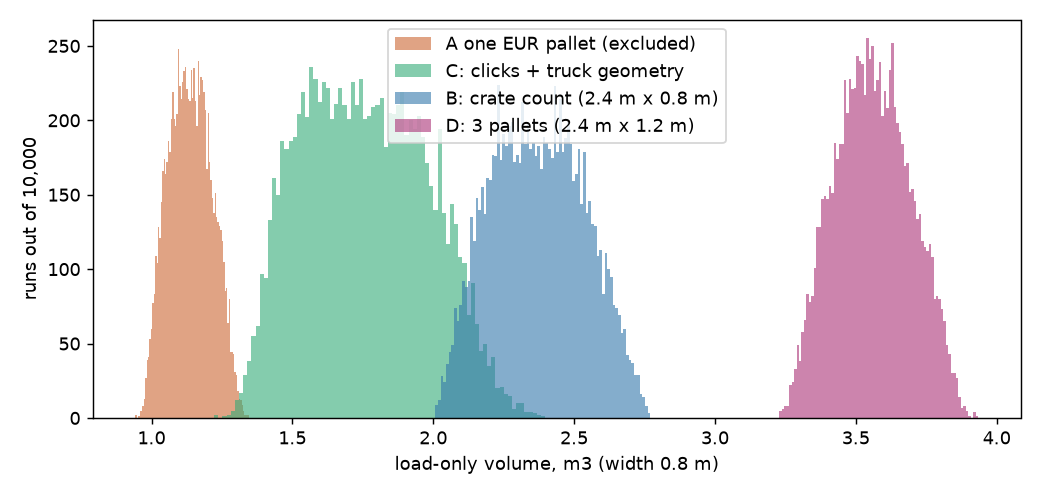
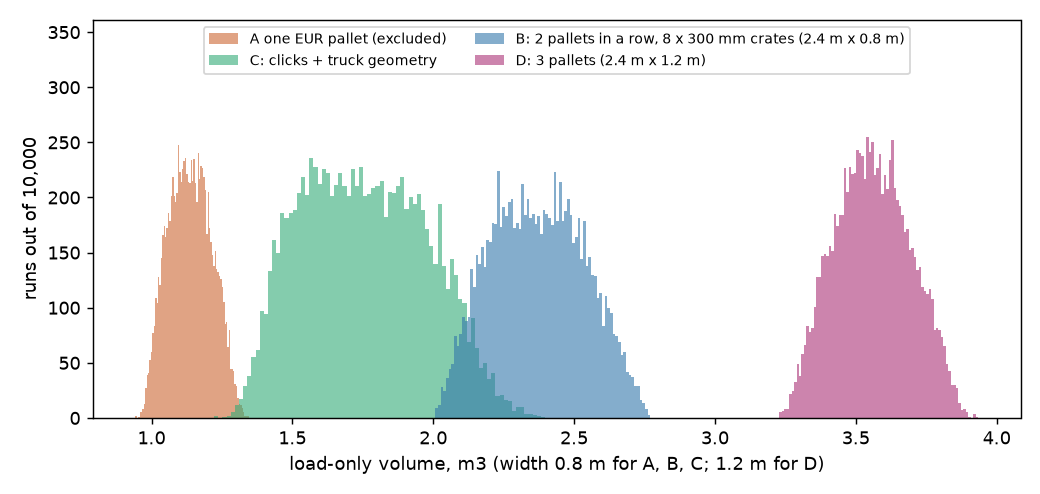
README/PITCH: one stance (D most likely), counts proof, wording fixes
- Assumption 9: 9 columns counted in #999 (top row shows both ends; lower
  rows and pallet reach the frame edge); 8 visible in #1086-#1098 because
  the left column is behind the fork carriage
- Add outputs/A_00999_counts.jpg (src/annotate_counts.py) as proof of the
  counts and reference it in the README
- Remove "none is main" / "no scenario selected"; D most likely everywhere
- Replace the mixed 1.8-3.7 range with "if 3 pallets: 3.4-3.7 m3" wording
  (README and PITCH)
- Crate row: real catalogue crate, not confirmed for this video
- "estimated by eye, not clicked" wording for #999 points
- volume_hist.png: x-axis width per scenario, B legend matches B, legend
  moved off D (seeded Monte Carlo re-run, numbers unchanged)

diff --git a/src/annotate_counts.py b/src/annotate_counts.py
@@ -1,0 +1,58 @@
+"""Draw the crate counts on frame #999 (outputs/A_00999_counts.jpg).
+
+Counts were made by eye on the zoomed frame: 9 columns (top and bottom row), 4 layers,
+3 labels (columns 1-2, 4, 7), double pallet feet between columns 3/4 and 6/7.
+Marker positions are approximate pixel positions, placed by eye; they illustrate the
+count and are not measurements.
+"""
+from PIL import Image, ImageDraw, ImageFont
+
+SRC, DST = "frames/A_00999.jpg", "outputs/A_00999_counts.jpg"
+
+TOP_ROW = [(1095, 535), (1172, 528), (1252, 518), (1333, 508), (1418, 498), (1510, 488), (1605, 478), (1705, 465), (1815, 455)]
+BOTTOM_ROW = [(1135, 840), (1212, 845), (1293, 848), (1378, 848), (1465, 848), (1560, 845), (1655, 842), (1760, 840), (1870, 835)]
+LAYERS = [(1065, 560), (1065, 650), (1065, 735), (1065, 830)]
+LABELS = [(1152, 740), (1392, 718), (1698, 690)]
+DOUBLE_FEET = [(1320, 930), (1610, 922)]
+
+
+def font(size):
+    try:
+        return ImageFont.truetype("DejaVuSans-Bold.ttf", size)
+    except OSError:
+        return ImageFont.load_default()
+
+
+def main():
+    im = Image.open(SRC).convert("RGB")
+    d = ImageDraw.Draw(im)
+    f, fs = font(30), font(24)
+
+    def tag(xy, text, fill, fnt=f):
+        x, y = xy
+        box = d.textbbox((x, y), text, font=fnt, anchor="mm")
+        d.rectangle((box[0] - 5, box[1] - 3, box[2] + 5, box[3] + 3), fill="black")
+        d.text((x, y), text, font=fnt, fill=fill, anchor="mm")
+
+    for i, p in enumerate(TOP_ROW, 1):
+        tag(p, str(i), "yellow")
+    for i, p in enumerate(BOTTOM_ROW, 1):
+        tag(p, str(i), "cyan")
+    for i, p in enumerate(LAYERS, 1):
+        tag(p, f"L{i}", "white", fs)
+    for x, y in LABELS:
+        d.rectangle((x - 38, y - 42, x + 38, y + 42), outline="magenta", width=5)
+    for x, y in DOUBLE_FEET:
+        d.ellipse((x - 45, y - 28, x + 45, y + 28), outline="orange", width=5)
+
+    legend = ["#999: 9 columns (yellow top row, cyan bottom row), 4 layers (L1-L4)",
+              "magenta = 3 labels (columns 1-2, 4, 7); orange = double feet where pallets meet (3/4, 6/7)",
+              "markers placed by eye; right end of lower rows and pallet at frame edge"]
+    for k, line in enumerate(legend):
+        tag((960, 1000 + k * 30), line, "white", fs)
+    im.save(DST, quality=92)
+    print("saved", DST)
+
+
+if __name__ == "__main__":
+    main()

diff --git a/src/uncertainty.py b/src/uncertainty.py
@@ -112,9 +112,9 @@ if __name__ == "__main__":
         s = sens[c]; ks = sorted(s, key=s.get); a.barh(ks, [s[k] for k in ks], color=["#444" if k == "all together" else "#3a7" for k in ks]); a.set_title(f"Case {c}: spread caused by one input alone"); a.set_xlabel("half of 80% range, % of median volume")
     plt.tight_layout(); plt.savefig("outputs/uncertainty_bars.png", dpi=130); plt.close()
     fig, a = plt.subplots(figsize=(8, 3.8))
-    for lab, v, col in (("A one EUR pallet (excluded)", simulate("A", ALL)["V"].mean(0), "#c63"), ("C: clicks + truck geometry", simulate("C", ALL)["V"].mean(0), "#3a7"), ("B: crate count (2.4 m x 0.8 m)", scenario_B_from_crates()["V"], "#37a"), ("D: 3 pallets (2.4 m x 1.2 m)", scenario_D()["V"], "#a37")):
+    for lab, v, col in (("A one EUR pallet (excluded)", simulate("A", ALL)["V"].mean(0), "#c63"), ("C: clicks + truck geometry", simulate("C", ALL)["V"].mean(0), "#3a7"), ("B: 2 pallets in a row, 8 x 300 mm crates (2.4 m x 0.8 m)", scenario_B_from_crates()["V"], "#37a"), ("D: 3 pallets (2.4 m x 1.2 m)", scenario_D()["V"], "#a37")):
         a.hist(v, bins=80, alpha=0.6, color=col, label=lab)
-    a.set_xlabel("load-only volume, m3 (width 0.8 m)"); a.set_ylabel("runs out of 10,000"); a.legend(); plt.tight_layout(); plt.savefig("outputs/volume_hist.png", dpi=130); plt.close()
+    a.set_xlabel("load-only volume, m3 (width 0.8 m for A, B, C; 1.2 m for D)"); a.set_ylabel("runs out of 10,000"); a.set_ylim(0, a.get_ylim()[1] * 1.35); a.legend(loc="upper center", ncol=2, fontsize=8); plt.tight_layout(); plt.savefig("outputs/volume_hist.png", dpi=130); plt.close()
     fig, a = plt.subplots(figsize=(6, 3.4)); pf = simulate("C", ALL)["V"]
     for i, (k, col) in enumerate(zip(("#1086", "#1092", "#1098"), ("#c63", "#37a", "#3a7"))): a.hist(pf[i], bins=60, alpha=0.5, color=col, label=k)
     a.set_xlabel("case C load-only volume, m3, per frame"); a.legend(); plt.tight_layout(); plt.savefig("outputs/frames_spread.png", dpi=130); plt.close()

diff --git a/README.md b/README.md
@@ -7,11 +7,11 @@ load of stacked crates on pallets. Estimate the load volume in m³ from the vide
 
 ## Result (short)
 * **Most likely scenario D (3 EUR pallets in a row, 2.4 x 1.2 m, 4 layers): about 3.6 m³ of load (80 % range 3.4-3.7 m³ inside D).** Load plus pallets about 4.0 m³.
-* **Across all scenarios that survive: about 1.8-3.7 m³**, depending on how many pallets are on the forks (C about 1.8, B about 2.4, D about 3.6; the 1.8 is C's median). A (1.14) is excluded.
+* **If 3 pallets: 3.4-3.7 m³. If something else, it could be lower, but B and C don't fit the crate counts well either, so I don't have a clean lower number I trust.** A (1.14) is excluded.
 * **What decides it:** the number of pallets and the fork length (D needs a third pallet beyond 1200/1800 mm forks), plus the crate type. None of these is verified from the video alone.
 * The ranges inside a scenario are small (about 5 %); the choice of scenario is the big uncertainty (see "Two kinds of uncertainty").
 
-> **Status: no single final number.** Scenarios B, C and D are carried side by side, none is "main". The reason is two unverified facts:
+> **Status: D is the most likely scenario, but it is not proven.** B and C are kept in the tables for comparison. The reason D is not proven is two unverified facts:
 > **the crate type and the pallet layout in this video are NOT verified** (see Assumptions 1 and 2). Case A (one EUR pallet) is excluded.
 
 ## Method in plain steps
@@ -25,7 +25,7 @@ load of stacked crates on pallets. Estimate the load volume in m³ from the vide
 5. Crate checks: count layers and crates, compare with real crate sizes (`src/crates.py`).
 6. Monte Carlo, 10,000 runs, inputs: click error, scale bias, fill factor, pallet tolerance, focal length (`src/uncertainty.py`).
 
-## Scenarios (width and crate type are not certain; none is chosen)
+## Scenarios (width and crate type are not certain; D is the most likely)
 Load-only volume, 80 % range from the Monte Carlo (`outputs/uncertainty.json`). Frames #1086/#1092/#1098 (clicked), pooled. Heights now use the **left-end** height with the truck scale
 (1.25 m = 4 layers x 312 mm); an earlier version used the mean height and understated it by about 8 %.
 
@@ -52,10 +52,10 @@ They assume that the scenario itself is right. They are the *small* uncertainty.
 **(b) Which scenario is right.** This is the *large* one and the Monte Carlo does not cover it: the load-only medians run from 1.75 (C) over 2.37 (B) to 3.56 m³ (D), a factor of about 2 between the ends,
 and A (1.14) is excluded. It depends on facts that are not verified: the crate type, how many pallets are on the forks, and the load depth (0.8 or 1.2 m). Today the evidence favours D, but D still has an open problem
 (the fork tips, see the consistency table). "They carry several pallets together" is **likely** (blue-load seam, 5-tine carriage at 52 s, see Assumption 14) but **unverified**; Carolinen could not be asked.
-So D's range must not be quoted as the whole uncertainty. The honest statement today is "about 1.8-3.7 m³ depending on the scenario, D most likely, and within D 3.4-3.7 m³".
+So D's range must not be quoted as the whole uncertainty. The honest statement today is: "If 3 pallets: 3.4-3.7 m³. If something else, it could be lower, but B and C don't fit the crate counts well either, so I don't have a clean lower number I trust."
 
 ### Consistency table (what each scenario has to explain)
-Facts read from the frames: **9 crate columns on every row** (frame #999, where the left end is visible), **4 layers**, **3 white labels, one per 3 columns** (spacing 3.1, 3.3, 3.0 columns in #999; 3.2 in #1008; 3.0 in #1092),
+Facts read from the frames: **9 crate columns on every row** (frame #999, where the left end and the top row's right end are visible; annotated in `outputs/A_00999_counts.jpg`), **4 layers**, **3 white labels, one per 3 columns** (spacing 3.1, 3.3, 3.0 columns in #999; 3.2 in #1008; 3.0 in #1092),
 **about 9 pallet feet** in 3 groups of 3 (8 clearly seen in #999 plus one at the frame edge; two pairs of feet side by side where two pallets would meet).
 
 | Test | A | B | C | D |
@@ -65,14 +65,14 @@ Facts read from the frames: **9 crate columns on every row** (frame #999, where 
 | Height 1.25-1.5 m measured (4 layers = 310-375 mm per layer) | ok | ok | ok | **yes** (1.24-1.33 m) |
 | Crate cell width/height measured 0.81-0.91 (apparent, from window pitch) | - | 300 x 290 needs a 24-37 deg turn (turn estimate 12-27 deg): borderline | borderline | 266 x 310-333 predicts 0.82-0.88: **fits** (needs a nearly frontal face) |
 | Fork tips (datasheet 1200 or 1800 mm) | fits | 2.4 m deep: overhangs 1.2 / 0.6 m | 1.8 m fits 1800 mm forks | same as B: pallet 3 hangs 1.2 m (1200 mm forks) or 0.6 m (1800 mm forks) beyond the tips |
-| Verified crate for the count | - | 300 mm side: 20 x 0.5 L only | no crate with a 200 mm side along 9 columns in 1.8 m (9 x 0.2) | 12 x 0.75 L crate 400 x 266 exists (Delbrouck), 9 per layer and 4 layers as in the Wasserhelden pallet data |
+| A real crate of this size exists (catalogue), but it is not confirmed to be the crate in this video. | - | 300 mm side: 20 x 0.5 L only | no crate with a 200 mm side along 9 columns in 1.8 m (9 x 0.2) | 12 x 0.75 L crate 400 x 266 exists (Delbrouck), 9 per layer and 4 layers as in the Wasserhelden pallet data |
 
 **What survives.** A is excluded (counts and length). B as defined does not survive the counts (it needs 8 columns, not 9). C survives only on one frame's truck scale and conflicts with the counts, with frame #999, and with
 a plain 266/300 crate. D survives the counts, the length (on 3 of 4 estimates), the height and the crate type, but it has to explain why the third pallet hangs over the fork tips, and it differs by 20-25 % from the #1092 truck-scale length.
-The datasheet lists no fork longer than 1800 mm for the E80 but mentions "hook-on and integrated attachments" without sizes, so a longer reach is possible but unverified. No scenario is selected here.
+The datasheet lists no fork longer than 1800 mm for the E80 but mentions "hook-on and integrated attachments" without sizes, so a longer reach is possible but unverified. D is the most likely scenario.
 
 * **Same load, two views.** In #999 the right end is nearer (edge height ratio 0.80); in #1092 the left end is nearer (1.17). The truck swings during the pass. With the pallet-height scale the two frames give 2.45-2.56 m and 2.05-2.20 m
-  (12 % apart); with the truck scale 2.60-2.72 m and 1.79-1.92 m (about 40 % apart). So the truck scale at #1092 is the least reliable number. #999 values come from points **read by eye by Claude, not clicked by you**.
+  (12 % apart); with the truck scale 2.60-2.72 m and 1.79-1.92 m (about 40 % apart). So the truck scale at #1092 is the least reliable number. #999 values come from points **estimated by eye, not clicked**.
 * Case A is excluded: the pallet long edge is about 14 times its height in the image (a 1200 x 144 mm face would be 8.3).
 
 ## Where the crate type came from (and did not)
@@ -93,9 +93,9 @@ The datasheet lists no fork longer than 1800 mm for the E80 but mentions "hook-o
 6. Camera: ideal pinhole, image centre as principal point, no lens distortion; focal length 800-1400 px (upper limit from the truck geometry, lower limit a wide-angle guess).
 7. The long face is a flat rectangle with equal vertical edges (the height ratio left/right comes from perspective only).
 8. Fill factor 0.90-1.00 (share of the bounding box that is filled). Click error: 2-5 px for sharp points, 10 px for blurry points.
-9. Crate count: 4 layers (counted by two people, re-checked on a close crop), 8 crates along the lower rows (9 in the top row, left end hidden by the fork carriage).
+9. Crate count: 4 layers (counted by two people, re-checked on a close crop). 9 columns, counted in #999: the top row shows both ends (right end at the frame edge for the lower rows and pallet). In #1086-#1098 only 8 are visible because the left column is behind the fork carriage. Annotated counts: `outputs/A_00999_counts.jpg` (`src/annotate_counts.py`).
 10. Frame #1098: the "truck rear" click is a different feature than in the other frames; it is not used for volumes.
-11. Frames #1086-#1098 are only 0.1-0.24 s apart; their errors are correlated. Frame #999 (19.98 s) shows the whole face from the other side of the turn; its corner points were **read by eye by Claude and are not verified** (`src/early_frames.py`).
+11. Frames #1086-#1098 are only 0.1-0.24 s apart; their errors are correlated. Frame #999 (19.98 s) shows the whole face from the other side of the turn; its corner points were **estimated by eye, not clicked**, and are not verified (`src/early_frames.py`).
 12. Extra frames used (not stored in the repo, see timestamps): green-crate close-up 16.0-17.5 s; blue-crate loads 115.4 s, 117.1 s, 138.5-139.6 s, 140-142 s; early pass 19.7-20.3 s. In the close-up the bottle labels read "Carolinen naturelle".
 14. **Empty forks found (video 51-52 s, frames 02575-02625 in `extra_pics/`):** a Linde truck of the same family with a very wide carriage and **5 fork tines** (so a multi-pallet fork is in use at this plant).
    It is an oblique view and probably a different truck, so it does not prove the pass-by truck has the same forks. Fork length cannot be read from this shot: the tines point partly towards the camera, and with the unknown turn
@@ -122,4 +122,4 @@ The datasheet lists no fork longer than 1800 mm for the E80 but mentions "hook-o
 * **Next steps:** a second camera or a depth sensor (gives width and true length directly), a frame with the pallets and fork tips visible, a known reference object in the load plane, a crate datasheet from the plant.
 
 ## Still open
-Frames #999 and #1014 were not clicked (the right end is cut off), so the #999 points in `src/early_frames.py` stay Claude's eyeballed, **unverified** readings. Crate type, number of pallets and fork length of the pass-by truck are not verified (the plant could not be asked).
+Frames #999 and #1014 were not clicked (the right end is cut off), so the #999 points in `src/early_frames.py` stay **estimated by eye, not clicked**, and unverified. Crate type, number of pallets and fork length of the pass-by truck are not verified (the plant could not be asked).

diff --git a/PITCH.md b/PITCH.md
@@ -6,7 +6,7 @@
 "I measured the load from one video frame. I clicked the corners of the load and the pallet, and used the forklift's known mast height, 2.89 metres, as a ruler. I took the perspective into account, and checked the result against counted crates."
 
 **0:15-0:35, the answer**
-"My best guess is three pallets in a row, about 3.6 cubic metres, with a range of 3.4 to 3.7. But overall, depending on the number of pallets, it is 1.8 to 3.7."
+"My best guess is three pallets in a row, about 3.6 cubic metres. If it is three pallets: 3.4 to 3.7. If it is something else, it could be lower, but the other options don't fit the crate counts well either, so I don't have a clean lower number I trust."
 
 **0:35-0:55, what decides it, and where it fails**
 "What decides it is how many pallets are on the forks, and how long the forks are. I could not verify that from the video. It also fails if the load is not a box, if the pallet is hidden, or if the camera angle is unusual."
